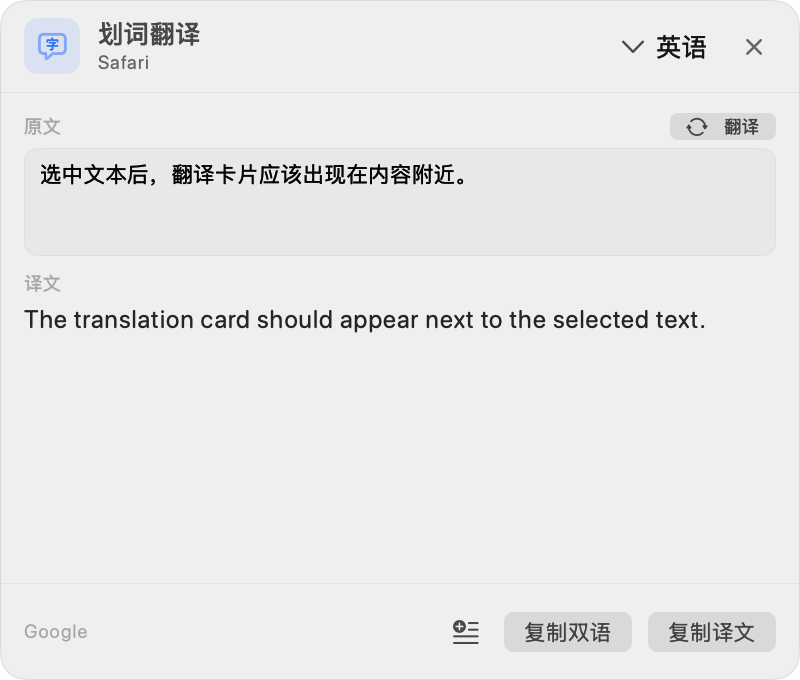
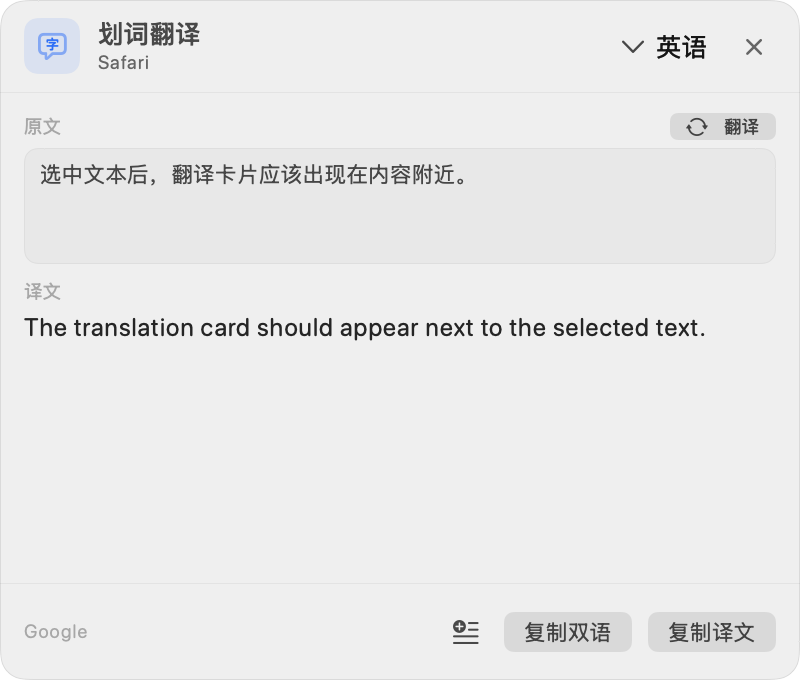
feat: translate with Return in selection source editor
- Use a native text editor so Return translates and Shift-Return inserts a newline

- Respect IME composition before handling Return

- Update localizations, docs, and selection card screenshots

- Prepare the 0.15.1 release docs

Changed region(s): [[0.0312, 0.4015, 0.875, 0.4941], [0.0312, 0.2162, 0.5625, 0.2779]]

diff --git a/HaoPaste/Views/Selection/TranslationSourceEditor.swift b/HaoPaste/Views/Selection/TranslationSourceEditor.swift
@@ -1,0 +1,131 @@
+//
+//  TranslationSourceEditor.swift
+//  HaoPaste
+//
+//  Editable source text for the selection translation card. Return submits,
+//  while Shift-Return inserts a newline at the insertion point.
+//
+
+import AppKit
+import SwiftUI
+
+struct TranslationSourceEditor: NSViewRepresentable {
+    @Binding var text: String
+    let onTranslate: (String) -> Void
+
+    func makeCoordinator() -> Coordinator {
+        Coordinator(self)
+    }
+
+    func makeNSView(context: Context) -> NSScrollView {
+        let scrollView = NSScrollView()
+        scrollView.drawsBackground = false
+        scrollView.borderType = .noBorder
+        scrollView.hasVerticalScroller = true
+        scrollView.autohidesScrollers = true
+
+        let textView = SourceTextView()
+        textView.delegate = context.coordinator
+        textView.isRichText = false
+        textView.isEditable = true
+        textView.isSelectable = true
+        textView.allowsUndo = true
+        textView.drawsBackground = false
+        textView.font = Self.font
+        textView.textColor = .labelColor
+        textView.textContainerInset = NSSize(width: 8, height: 6)
+        textView.textContainer?.lineFragmentPadding = 0
+        textView.textContainer?.widthTracksTextView = true
+        textView.isVerticallyResizable = true
+        textView.isHorizontallyResizable = false
+        textView.autoresizingMask = [.width]
+        textView.minSize = .zero
+        textView.maxSize = NSSize(
+            width: CGFloat.greatestFiniteMagnitude,
+            height: CGFloat.greatestFiniteMagnitude
+        )
+        textView.isAutomaticQuoteSubstitutionEnabled = false
+        textView.isAutomaticDashSubstitutionEnabled = false
+        textView.isAutomaticTextReplacementEnabled = false
+        textView.isAutomaticSpellingCorrectionEnabled = false
+        textView.isContinuousSpellCheckingEnabled = false
+        textView.isGrammarCheckingEnabled = false
+        textView.string = text
+        textView.onTranslate = onTranslate
+        textView.setAccessibilityLabel(L("原文"))
+
+        scrollView.documentView = textView
+        return scrollView
+    }
+
+    func updateNSView(_ scrollView: NSScrollView, context: Context) {
+        guard let textView = scrollView.documentView as? SourceTextView else {
+            return
+        }
+
+        context.coordinator.parent = self
+        textView.onTranslate = onTranslate
+        textView.setAccessibilityLabel(L("原文"))
+
+        if textView.string != text {
+            textView.string = text
+            textView.setSelectedRange(
+                NSRange(location: (text as NSString).length, length: 0)
+            )
+        }
+    }
+
+    final class Coordinator: NSObject, NSTextViewDelegate {
+        var parent: TranslationSourceEditor
+
+        init(_ parent: TranslationSourceEditor) {
+            self.parent = parent
+        }
+
+        func textDidChange(_ notification: Notification) {
+            guard let textView = notification.object as? NSTextView else {
+                return
+            }
+            parent.text = textView.string
+        }
+    }
+
+    private static let font: NSFont = {
+        let size: CGFloat = 11
+        let base = NSFont.systemFont(ofSize: size)
+        guard
+            let descriptor = base.fontDescriptor.withDesign(.rounded),
+            let font = NSFont(descriptor: descriptor, size: size)
+        else {
+            return base
+        }
+        return font
+    }()
+}
+
+private final class SourceTextView: NSTextView {
+    var onTranslate: ((String) -> Void)?
+
+    override func keyDown(with event: NSEvent) {
+        if hasMarkedText() {
+            super.keyDown(with: event)
+            return
+        }
+
+        if event.keyCode == 36 || event.keyCode == 76 {
+            let flags = event.modifierFlags.intersection(
+                .deviceIndependentFlagsMask
+            )
+            if flags.contains(.shift) {
+                insertNewline(nil)
+            } else if let onTranslate {
+                onTranslate(string)
+            } else {
+                insertNewline(nil)
+            }
+            return
+        }
+
+        super.keyDown(with: event)
+    }
+}

diff --git a/HaoPaste/Views/Selection/SelectionTranslationCardView.swift b/HaoPaste/Views/Selection/SelectionTranslationCardView.swift
@@ -222,35 +222,25 @@ struct SelectionTranslationCardView: View {
                 }
                 .buttonStyle(.bordered)
                 .controlSize(.mini)
-                .keyboardShortcut(.return, modifiers: .command)
-                .help(L("翻译（⌘↩）"))
+                .help(L("翻译（回车）"))
                 .disabled(isSourceEmpty || service.phase == .translating)
             }
 
-            TextField("", text: $draftSource, axis: .vertical)
-                .textFieldStyle(.plain)
-                .font(.system(size: 11, design: .rounded))
-                .foregroundStyle(.primary)
-                .lineLimit(2...4)
-                .frame(
-                    maxWidth: .infinity,
-                    minHeight: 42,
-                    alignment: .topLeading
-                )
-                .padding(.horizontal, 8)
-                .padding(.vertical, 6)
-                .background {
-                    RoundedRectangle(cornerRadius: 7, style: .continuous)
-                        .fill(Color.primary.opacity(0.035))
-                }
-                .overlay {
-                    RoundedRectangle(cornerRadius: 7, style: .continuous)
-                        .strokeBorder(
-                            Color.primary.opacity(isDirty ? 0.12 : 0.05),
-                            lineWidth: Theme.hairline
-                        )
-                }
-                .accessibilityLabel(L("原文"))
+            TranslationSourceEditor(text: $draftSource) { source in
+                translateDraft(source)
+            }
+            .frame(height: 58)
+            .background {
+                RoundedRectangle(cornerRadius: 7, style: .continuous)
+                    .fill(Color.primary.opacity(0.035))
+            }
+            .overlay {
+                RoundedRectangle(cornerRadius: 7, style: .continuous)
+                    .strokeBorder(
+                        Color.primary.opacity(isDirty ? 0.12 : 0.05),
+                        lineWidth: Theme.hairline
+                    )
+            }
         }
     }
 
@@ -262,8 +252,10 @@ struct SelectionTranslationCardView: View {
         draftSource.trimmingCharacters(in: .whitespacesAndNewlines).isEmpty
     }
 
-    private func translateDraft() {
-        let trimmed = draftSource.trimmingCharacters(
+    private func translateDraft(_ source: String? = nil) {
+        guard service.phase != .translating else { return }
+
+        let trimmed = (source ?? draftSource).trimmingCharacters(
             in: .whitespacesAndNewlines
         )
         guard !trimmed.isEmpty else { return }

diff --git a/CHANGELOG.md b/CHANGELOG.md
@@ -38,7 +38,7 @@
 ### 中文
 
 - 划词图标改为自绘的方向性翻译气泡：保持 A / 文 正向，并根据图标相对选区的位置让气泡尾巴朝向下、上、左或右；优先显示在选区上方，空间不足时依次回退到下方、右侧或左侧。
-- 划词翻译卡片中的原文现在可以直接编辑；修改后点击「翻译」或按 `⌘↩` 重新翻译。原文未提交修改时译文会淡化，复制按钮暂时禁用。
+- 划词翻译卡片中的原文现在可以直接编辑；修改后点击「翻译」或按回车重新翻译，`Shift+回车` 换行。原文未提交修改时译文会淡化，复制按钮暂时禁用。
 - 调整图标比例，加宽 A 气泡、缩短尾巴，并修正点击图标偶发不弹出翻译的问题：忽略图标区域内的外部点击、开卡时短暂抑制重新检测选区，并把图标与卡片提升到 pop-up 窗口层级，避免被其他应用的选区弹窗拦截。
 - 移除无效的手型光标尝试；保留悬停高亮与轻微缩放反馈。
 - 新增方向性图标与四向布局测试；128 个 XCTest。
@@ -46,7 +46,7 @@
 ### English
 
 - Replaced the fixed-tail SF Symbol with a custom directional translate glyph: the A / 文 bubbles stay upright while the tail points down, up, left, or right based on the icon's position relative to the selection. The icon prefers above, then below, right, and left.
-- The source text in the selection translation card is now editable. Edit it and click **Translate** or press `⌘↩` to translate again; while changes are unsubmitted, the translation dims and copy actions are disabled.
+- The source text in the selection translation card is now editable. Edit it and click **Translate** or press Return to translate again; press `Shift+Return` to insert a newline. While changes are unsubmitted, the translation dims and copy actions are disabled.
 - Rebalanced the icon proportions, widened the A bubble, shortened the tail, and fixed an occasional failure where clicking the icon did not open translation: clicks inside the icon are no longer treated as outside interactions, selection checks are briefly suppressed while the card opens, and the icon/card now use a pop-up window level so other apps' selection popovers cannot intercept the click.
 - Removed the ineffective pointing-hand cursor attempt; hover highlight and slight scaling remain.
 - Added directional icon and four-way placement tests; 128 XCTest cases.

diff --git a/README.en.md b/README.en.md
@@ -2,7 +2,7 @@
 
 English | [简体中文](README.md)
 
-Current version: **v0.15.0**
+Current version: **v0.15.1**
 
 A native, fast, keyboard-first clipboard manager for macOS. Press `⌥⌘V` in any app to open a borderless floating panel, then search, select, and copy without breaking your flow.
 
@@ -22,11 +22,11 @@ A native, fast, keyboard-first clipboard manager for macOS. Press `⌥⌘V` in a
 
    ```bash
    make dmg
-   # dist/HaoPaste-0.15.0.dmg
-   # dist/HaoPaste-0.15.0.dmg.sha256
+   # dist/HaoPaste-0.15.1.dmg
+   # dist/HaoPaste-0.15.1.dmg.sha256
    ```
 
-2. Open `HaoPaste-0.15.0.dmg`, then drag **HaoPaste** into **Applications**.
+2. Open `HaoPaste-0.15.1.dmg`, then drag **HaoPaste** into **Applications**.
 3. If macOS says the developer cannot be verified:
    - Open **System Settings → Privacy & Security**
    - Under **Security**, find **HaoPaste**
@@ -130,7 +130,7 @@ Open the **Snippets** tab in the panel and click **New Snippet**, or right-click
 - Select text with the mouse to show a small translate icon. Selected text is read and translated only after clicking the icon.
 - The icon stays visible while hovered, highlights and scales slightly to signal that it is clickable, and hides 2 seconds after the pointer leaves.
 - The tail points down, up, left, or right depending on where the icon sits relative to the selected text.
-- The source text in the selection translation card is editable; click **Translate** or press `⌘↩` to translate the edited text.
+- The source text in the selection translation card is editable; click **Translate** or press Return to translate the edited text, and press `Shift+Return` for a newline.
 - The translation card opens near the selection instead of being fixed to the screen center.
 - It never simulates `⌘C` or copies automatically; normal copy shortcuts keep working.
 - Skipped in full-screen apps, secure input, excluded apps, and HaoPaste itself.

diff --git a/Docs/DEVELOPMENT.md b/Docs/DEVELOPMENT.md
@@ -144,8 +144,8 @@ make dmg
 输出：
 
 ```text
-dist/HaoPaste-0.15.0.dmg                 # 安装包（app + Applications 快捷方式）
-dist/HaoPaste-0.15.0.dmg.sha256          # SHA-256 校验
+dist/HaoPaste-0.15.1.dmg                 # 安装包（app + Applications 快捷方式）
+dist/HaoPaste-0.15.1.dmg.sha256          # SHA-256 校验
 ```
 
 > `dist/` 只保留 DMG，不再额外放一份 `.app`，避免 Spotlight / Launch Services 中出现多个 HaoPaste 副本。可运行的 Release 产物位于 `.build/release/Build/Products/Release/HaoPaste.app`。
@@ -192,11 +192,11 @@ codesign --force --deep --options runtime --timestamp \
 5. 提交 Apple Notary Service 并 stapling：
 
 ```bash
-xcrun notarytool submit "dist/HaoPaste-0.15.0.dmg" \
+xcrun notarytool submit "dist/HaoPaste-0.15.1.dmg" \
   --keychain-profile "haopaste-notary" --wait
 
-xcrun stapler staple "dist/HaoPaste-0.15.0.dmg"
-xcrun stapler validate "dist/HaoPaste-0.15.0.dmg"
+xcrun stapler staple "dist/HaoPaste-0.15.1.dmg"
+xcrun stapler validate "dist/HaoPaste-0.15.1.dmg"
 ```
 
 也可以对 `.app` 先公证再打包（Apple 推荐流程根据分发方式调整）。需要 Apple Developer Program 账号。

diff --git a/Docs/README.md b/Docs/README.md
@@ -12,7 +12,7 @@
 
 ## 当前版本
 
-- 版本：`0.15.0`
+- 版本：`0.15.1`
 - 运行要求：macOS 14+
 - 构建环境：Xcode 15+，本项目在 Xcode 26.5 / macOS 26.5 上验证
 - 分发形态：菜单栏驻留应用，Release `.app` + DMG
